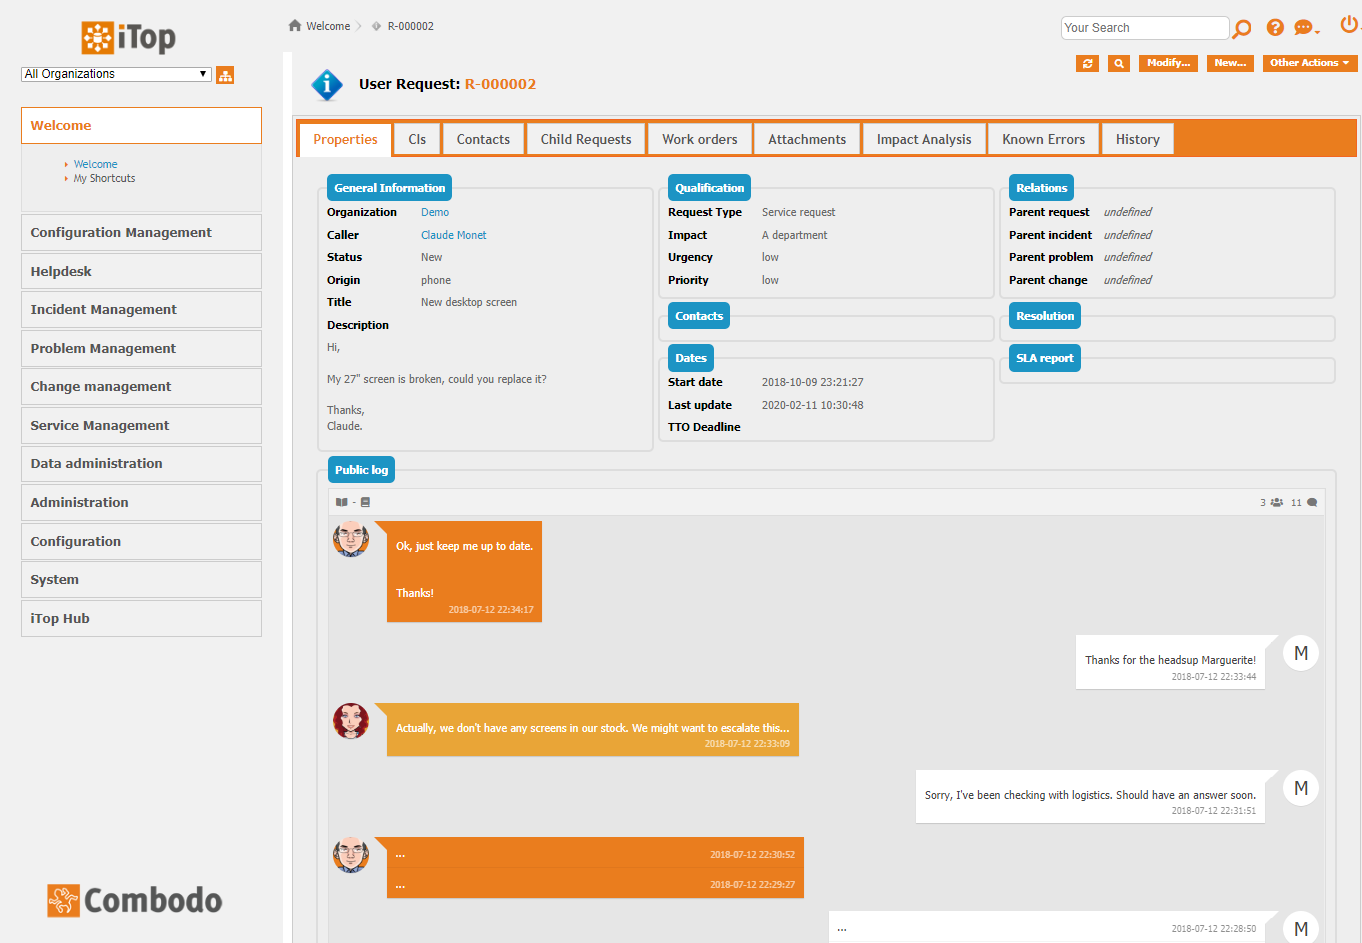
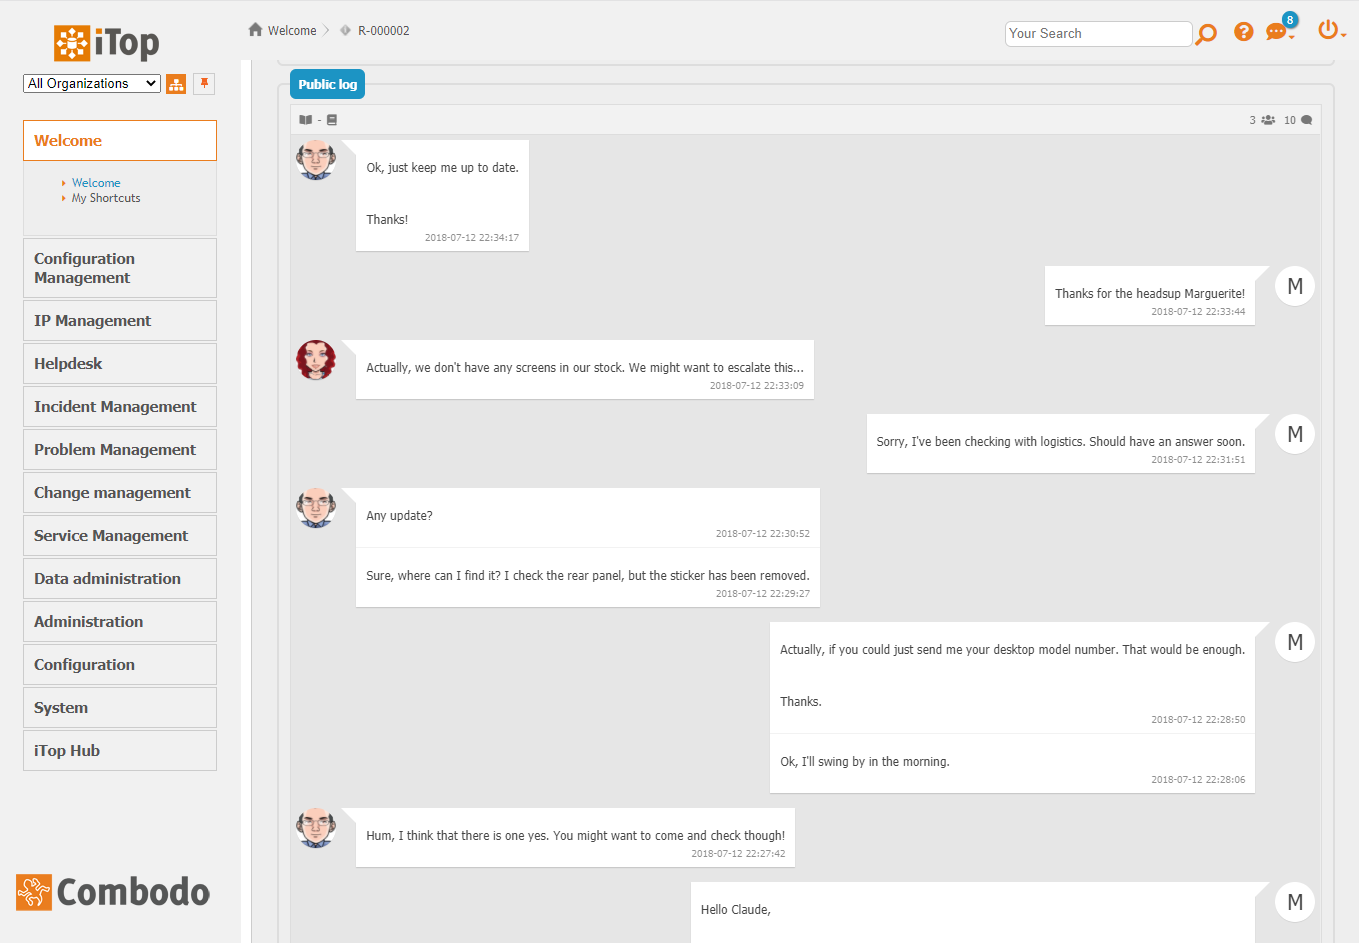
:pencil2: Update README

diff --git a/molkobain-bubble-caselogs/CHANGELOG.md b/molkobain-bubble-caselogs/CHANGELOG.md
@@ -5,6 +5,11 @@ The format is based on [Keep a Changelog](https://keepachangelog.com/en/1.0.0/).
 
 ## [Unreleased]
 
+## [1.4.0] - 2021-02-09
+### Changed
+- Change bubbles colors to white to have something more neutral
+- Update dependencies to last versions
+
 ## [1.3.2] - 2020-03-22
 ### Changed
 - Update dependencies to last versions
@@ -50,7 +55,8 @@ The format is based on [Keep a Changelog](https://keepachangelog.com/en/1.0.0/).
 - Add configuration parameters to choose open / close all icons
 - Add messages count next to users count
 
-[Unreleased]: https://github.com/Molkobain/itop-bubble-caselogs/compare/v1.3.2...HEAD
+[Unreleased]: https://github.com/Molkobain/itop-bubble-caselogs/compare/v1.4.0...HEAD
+[1.4.0]: https://github.com/Molkobain/itop-bubble-caselogs/releases/tag/v1.4.0
 [1.3.2]: https://github.com/Molkobain/itop-bubble-caselogs/releases/tag/v1.3.2
 [1.3.1]: https://github.com/Molkobain/itop-bubble-caselogs/releases/tag/v1.3.1
 [1.3.0]: https://github.com/Molkobain/itop-bubble-caselogs/releases/tag/v1.3.0

diff --git a/molkobain-bubble-caselogs/README.md b/molkobain-bubble-caselogs/README.md
@@ -1,4 +1,4 @@
-👋 [Available on Molkobain I/O](https://www.molkobain.com/product/bubble-caselogs/)
+👋 Available on [iTop Hub](https://store.itophub.io/en_US/products/molkobain-bubble-caselogs) and [Molkobain I/O](https://www.molkobain.com/product/bubble-caselogs/)
 
 # iTop extension: molkobain-bubble-caselogs
 * [Description](#description)
@@ -78,6 +78,12 @@ Some configuration parameters are available from the Configuration editor of the
   'icons_separator' => '-',
 ),
 ```
+
+## Contributors
+I would like to give a special thank you to those who contributed to this project, including:
+
+### Aliases
+- @pcadeot
 
 ## Licensing
 This extension is bound by the license you purchased. A license grants you a non-exclusive and non-transferable right to use and incorporate the item in your personal or commercial projects. There are several [licenses available](https://www.molkobain.com/usage-licenses/).
